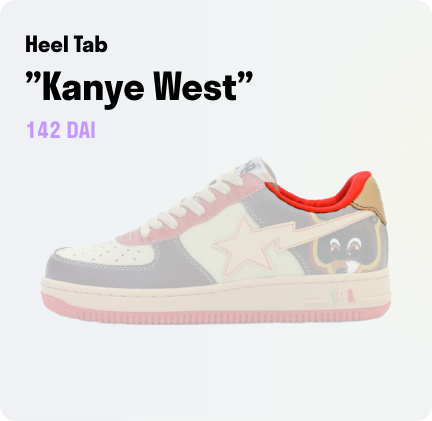
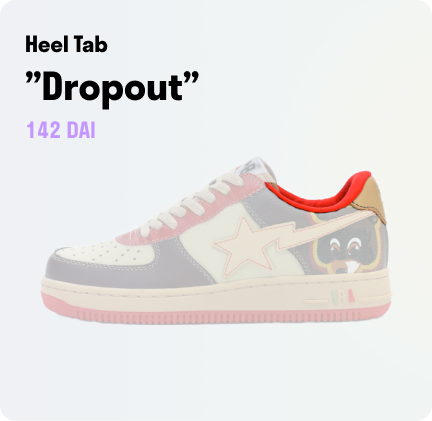
Change name to dropout

Changed region(s): [[0.0903, 0.1544, 0.6019, 0.2779]]

diff --git a/packages/react-app/src/App.jsx b/packages/react-app/src/App.jsx
@@ -403,7 +403,7 @@ function App(props) {
                           fontSize: 38, 
                           width: 235 
                         }}>
-                        Drop #1 ”Kanye West”
+                        Drop #1 ”Dropout”
                       </span>
                       <span 
                         style={{ 

diff --git a/packages/react-app/src/views/Drop.jsx b/packages/react-app/src/views/Drop.jsx
@@ -22,7 +22,7 @@ function Drop(props) {
             Drop #1
           </div>
           <div className="drop__name">
-            "Kanye West"
+            "Dropout"
           </div>
           <div className="drop__price">
             150 DAI ($145)

diff --git a/packages/react-app/src/views/PartPicker.jsx b/packages/react-app/src/views/PartPicker.jsx
@@ -87,7 +87,7 @@ function PartPicker(props) {
   ]
   const variationList = [
     { 
-      name: "Kanye West",
+      name: "Dropout",
       price: "14.77 ETH ($26,975)"
     },
     { 
